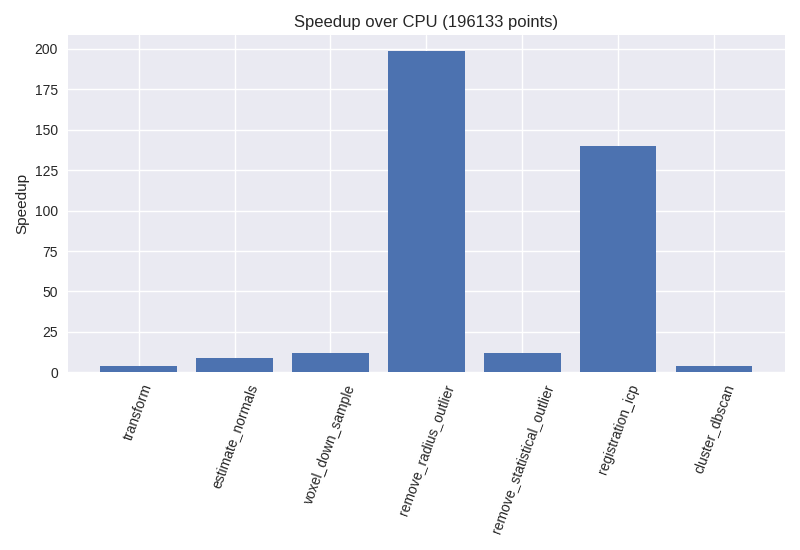
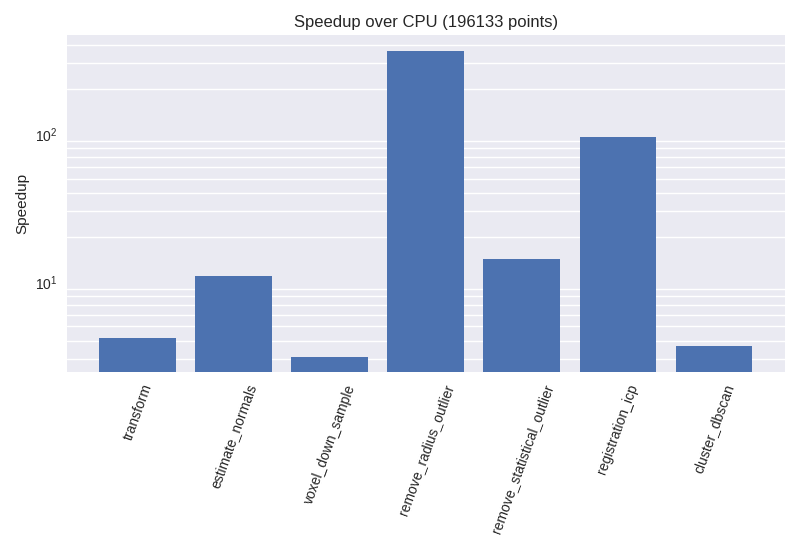
log scale

diff --git a/examples/python/basic/benchmarks.py b/examples/python/basic/benchmarks.py
@@ -69,6 +69,9 @@ speeds['cluster_dbscan'] = (tc / tg)
 import matplotlib.pyplot as plt
 plt.style.use('seaborn')
 plt.title("Speedup over CPU (%d points)" % np.asarray(pc_gpu.points.cpu()).shape[0])
+plt.yscale('log')
+plt.grid(which='major', color='white', linestyle='-')
+plt.grid(which='minor', color='white', linestyle='-')
 plt.ylabel("Speedup")
 plt.bar(speeds.keys(), speeds.values())
 plt.xticks(rotation=70)
